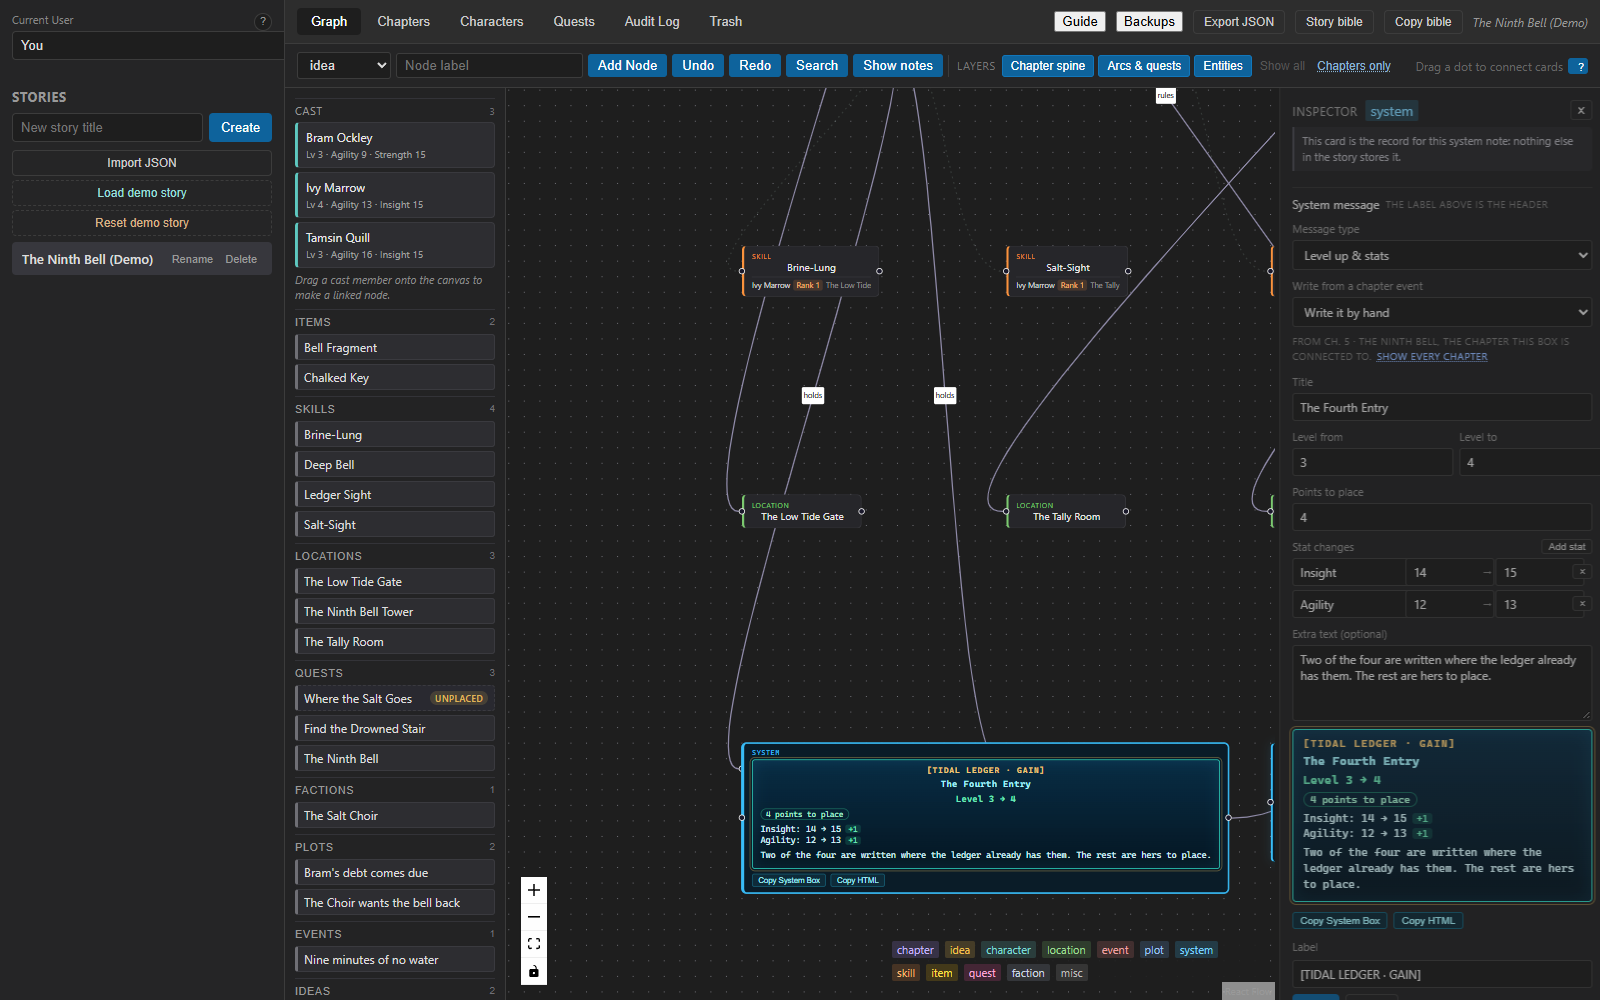
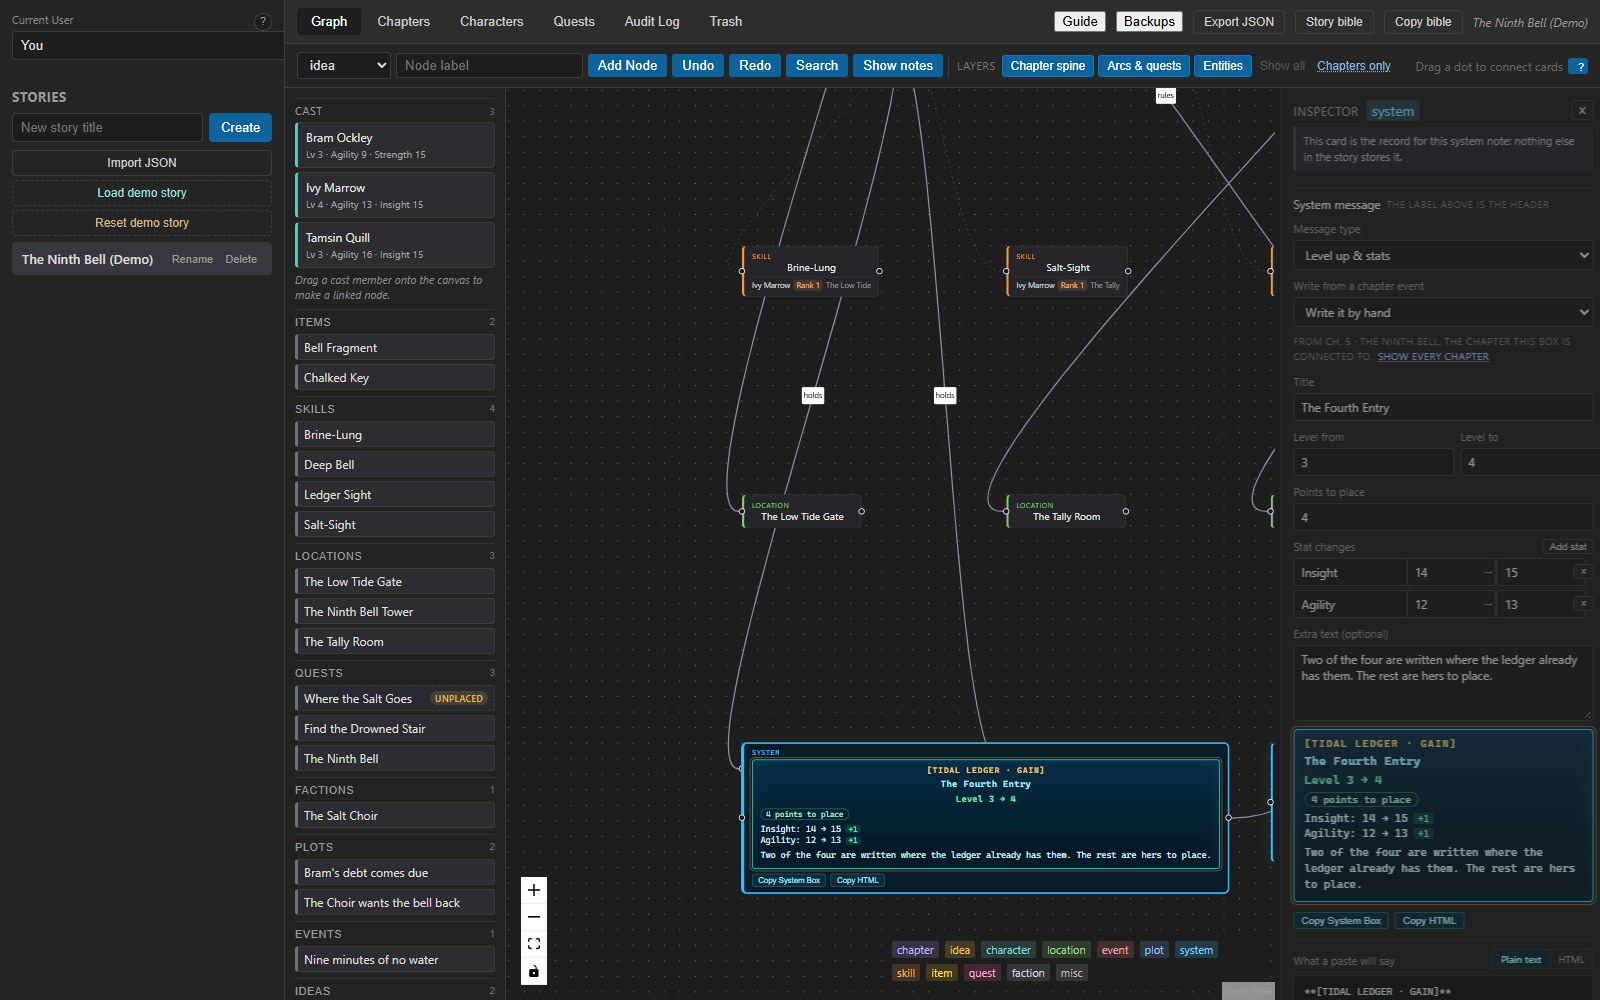
Show the paste a System box will make before it is copied
The drawer could copy a box as plain text or HTML, but the marks and tags were
only seen after pasting into a chapter. A quiet panel under the box now renders
the chosen format from the drawer's draft, so it answers before the card is
saved and cannot change what the buttons put on the clipboard.

🤖 Generated with Codebuff

diff --git a/src/domains/canvas/SystemBox.tsx b/src/domains/canvas/SystemBox.tsx
@@ -121,6 +121,47 @@ export function SystemBoxFace({ message }: { message: SystemMessage }) {
 
 export type SystemBoxFormat = 'markdown' | 'html';
 
+const copyFormats: { format: SystemBoxFormat; label: string; title: string }[] = [
+  {
+    format: 'markdown',
+    label: 'Plain text',
+    title: 'The text Copy System Box puts on the clipboard',
+  },
+  { format: 'html', label: 'HTML', title: 'The tags Copy HTML puts on the clipboard' },
+];
+
+/** What a paste will say, before it is pasted. The box above shows the words a
+ *  reader meets; this shows the marks an editor meets — the asterisks, or the
+ *  tags — so nothing reaches a chapter that the author has not looked at. */
+export function SystemCopyPreview({ message }: { message: SystemMessage }) {
+  const [format, setFormat] = useState<SystemBoxFormat>('markdown');
+
+  return (
+    <section className="system-copy-preview" aria-label="Copy preview">
+      <div className="system-copy-preview-head">
+        <span className="node-drawer-label">What a paste will say</span>
+        <div className="system-copy-preview-tabs" role="group" aria-label="Copy format">
+          {copyFormats.map(entry => (
+            <button
+              key={entry.format}
+              type="button"
+              className={format === entry.format ? 'active' : ''}
+              aria-pressed={format === entry.format}
+              title={entry.title}
+              onClick={() => setFormat(entry.format)}
+            >
+              {entry.label}
+            </button>
+          ))}
+        </div>
+      </div>
+      <pre className="system-copy-preview-text">
+        {format === 'html' ? systemMessageHtml(message) : systemMessageMarkdown(message)}
+      </pre>
+    </section>
+  );
+}
+
 /** Copy, with its own answer: a clipboard that refuses says so rather than
  *  claiming the box is on it. Each format is its own button, so pressing one
  *  never leaves the other looking pressed. */

diff --git a/src/domains/canvas/SystemBox.test.tsx b/src/domains/canvas/SystemBox.test.tsx
@@ -6,7 +6,7 @@ const { writeText } = vi.hoisted(() => ({ writeText: vi.fn() }));
 
 vi.mock('@tauri-apps/plugin-clipboard-manager', () => ({ writeText }));
 
-import { CopySystemBoxButton, SystemBoxFace } from './SystemBox';
+import { CopySystemBoxButton, SystemBoxFace, SystemCopyPreview } from './SystemBox';
 import { systemMessageOf } from './systemMessage';
 
 // The card face and the two copy buttons: what the box looks like for each kind
@@ -185,6 +185,34 @@ describe('the copy buttons', () => {
       ].join('\n')
     );
     expect(await screen.findByRole('button', { name: 'Copied' })).toBeInTheDocument();
+  });
+
+  it('shows the copy before it is pasted, in either format', async () => {
+    const user = userEvent.setup();
+    render(<SystemCopyPreview message={systemMessageOf('The Tidal Ledger', levelUp)} />);
+
+    const preview = screen.getByRole('region', { name: 'Copy preview' });
+
+    // The panel shows the marks an editor will meet, not the words alone: the
+    // plain text arrives with its asterisks, so an author can see what a paste
+    // into a chapter will look like before making it.
+    expect(preview.querySelector('pre')).toHaveTextContent('**The Tidal Ledger**');
+    expect(preview.querySelector('pre')).toHaveTextContent('**Agility: 12 → 13 (+1)**');
+    expect(screen.getByRole('button', { name: 'Plain text' })).toHaveAttribute(
+      'aria-pressed',
+      'true'
+    );
+
+    await user.click(screen.getByRole('button', { name: 'HTML' }));
+
+    expect(preview.querySelector('pre')).toHaveTextContent('<div style="text-align: center;">');
+    expect(preview.querySelector('pre')).toHaveTextContent(
+      '<strong>Agility: 12 → 13 (+1)</strong>'
+    );
+    expect(screen.getByRole('button', { name: 'HTML' })).toHaveAttribute(
+      'aria-pressed',
+      'true'
+    );
   });
 
   it('does not claim a copy a locked clipboard refused', async () => {

diff --git a/src/domains/canvas/GraphTab.test.tsx b/src/domains/canvas/GraphTab.test.tsx
@@ -1316,6 +1316,40 @@ describe('the graph tab', () => {
       expect(within(box).getByText('+1')).toHaveClass('system-box-delta');
     });
 
+    it('shows what the two copies will paste, under the box', async () => {
+      const user = userEvent.setup();
+      const system = node('n-4', '[TIDAL LEDGER]', 'system', { content: 'Type: notice' });
+
+      open(
+        {
+          nodes: [system],
+          selectedNode: system,
+          selectedNodeId: system.id,
+          nodeLabelDraft: system.data.label,
+        },
+        {
+          nodeContentDraft: ['Type: level_up', 'Title: The Tide Advances', 'Level: 3 → 4'].join(
+            '\n'
+          ),
+        }
+      );
+
+      const box = screen.getByRole('region', { name: 'System box' });
+      const preview = within(box).getByRole('region', { name: 'Copy preview' });
+
+      expect(preview.querySelector('pre')).toHaveTextContent('**[TIDAL LEDGER]**');
+      expect(preview.querySelector('pre')).toHaveTextContent('**Level 3 → 4**');
+
+      // It reads the drawer's draft rather than the last saved row, so the
+      // preview answers while the author is still typing.
+      const title = within(box).getByLabelText('Title');
+
+      await user.clear(title);
+      await user.type(title, 'The Tide Turns');
+
+      expect(preview.querySelector('pre')).toHaveTextContent('**The Tide Turns**');
+    });
+
     it('writes a box from a chapter event the scene already logged', async () => {
       const user = userEvent.setup();
       const system = node('n-4', '[TIDAL LEDGER]', 'system', { content: 'Type: notice' });

diff --git a/src/styles.css b/src/styles.css
@@ -4902,6 +4902,76 @@ body {
   border-top: 1px solid #333;
 }
 
+/* The copy as it will leave the app. The box above reads the way a reader will
+   meet it; this reads the way an editor will, marks and all. */
+.system-copy-preview {
+  display: flex;
+  flex-direction: column;
+  gap: 6px;
+  margin-top: 6px;
+  padding-top: 8px;
+  border-top: 1px solid #2c2c2c;
+}
+
+.system-copy-preview-head {
+  display: flex;
+  flex-wrap: wrap;
+  align-items: center;
+  justify-content: space-between;
+  gap: 6px;
+}
+
+.system-copy-preview-tabs {
+  display: inline-flex;
+  border: 1px solid #333;
+  border-radius: 4px;
+  overflow: hidden;
+}
+
+.system-copy-preview-tabs button {
+  padding: 2px 8px;
+  border: 0;
+  background: #252526;
+  color: #999;
+  font: inherit;
+  font-size: 10px;
+  cursor: pointer;
+}
+
+.system-copy-preview-tabs button + button {
+  border-left: 1px solid #333;
+}
+
+.system-copy-preview-tabs button:hover {
+  color: #a5f3fc;
+}
+
+.system-copy-preview-tabs button.active {
+  background: #0e2b39;
+  color: #a5f3fc;
+}
+
+.system-copy-preview-tabs button:focus-visible {
+  outline: 1px solid #a5f3fc;
+  outline-offset: -2px;
+}
+
+.system-copy-preview-text {
+  margin: 0;
+  max-height: 160px;
+  overflow: auto;
+  padding: 8px 10px;
+  background: #171717;
+  border: 1px solid #2c2c2c;
+  border-radius: 4px;
+  color: #cfd6d8;
+  font-family: 'Cascadia Mono', 'Consolas', ui-monospace, monospace;
+  font-size: 10px;
+  line-height: 1.5;
+  white-space: pre-wrap;
+  word-break: break-word;
+}
+
 .graph-node.misc {
   --accent: #9a9a9a;
 }

diff --git a/src/domains/canvas/GraphTab.tsx b/src/domains/canvas/GraphTab.tsx
@@ -19,7 +19,7 @@ import type { Character, CharacterSkill, CharacterStat } from '../shared/types';
 import type { Story } from '../stories/types';
 import { flowNodeTypes } from './GraphNode';
 import { CardSections } from './CardSections';
-import { CopySystemBoxButton, SystemBoxFace } from './SystemBox';
+import { CopySystemBoxButton, SystemBoxFace, SystemCopyPreview } from './SystemBox';
 import { SystemMessageForm } from './SystemMessageForm';
 import { serializeSystemMessage, systemMessageOf } from './systemMessage';
 import { chapterBesideCard, chapterEventsFor } from './systemEvents';
@@ -810,6 +810,10 @@ export function GraphTab({
                       <CopySystemBoxButton message={systemMessageDraft} />
                       <CopySystemBoxButton message={systemMessageDraft} format="html" />
                     </div>
+                    {/* What those two buttons will put on the clipboard,
+                        marks and all, so the paste is never the first sight of
+                        it. */}
+                    <SystemCopyPreview message={systemMessageDraft} />
                   </section>
                 )}
 

diff --git a/STORYBOARDING.md b/STORYBOARDING.md
@@ -335,6 +335,13 @@ your own text. In HTML anything that looks like a tag is escaped, so a stat line
 `<HP>` stays text. Each button says **Copied** when the clipboard took it and **Copy
 failed** when it did not, so a box never looks copied when it is not.
 
+Under the box the drawer shows the paste itself, in **What a paste will say**. Its two
+buttons, **Plain text** and **HTML**, switch between the two copies, marks and all —
+the asterisks on the bold lines, the tags around them — so the first sight of a paste
+is in the drawer rather than in the middle of a chapter. It reads what you are typing
+rather than the last save, so it answers while the box is still half written, and it
+is a look and not an edit: the panel cannot change what goes on the clipboard.
+
 ## 3. Chapters are the spine
 
 Everything else hangs off the reading order, which is why the board opens on it.

diff --git a/GUIDE.md b/GUIDE.md
@@ -415,6 +415,10 @@ Flavour text, any length.
   style="text-align: center;">` of `<p>`s, joins the lines inside a statement with
   `<br />`, and puts every heading, stat and objective in its own `<strong>`, with
   every part passed through `escapeHtml` so a stat line of `<HP>` stays text.
+  `SystemCopyPreview` puts that text in the drawer under the box, with a
+  **Plain text** / **HTML** switch, so what the two buttons will paste is read
+  before it is pasted; it renders from the drawer's draft, so it answers before
+  the card is saved, and holds only which format is showing.
 - `systemEvents.ts` turns the scenes' own records into boxes. `chapterEventChoices`
   walks every chapter event, adds the experience up in reading order and asks
   `levelForXp` (with the character's rule or the story's) where the award left the
